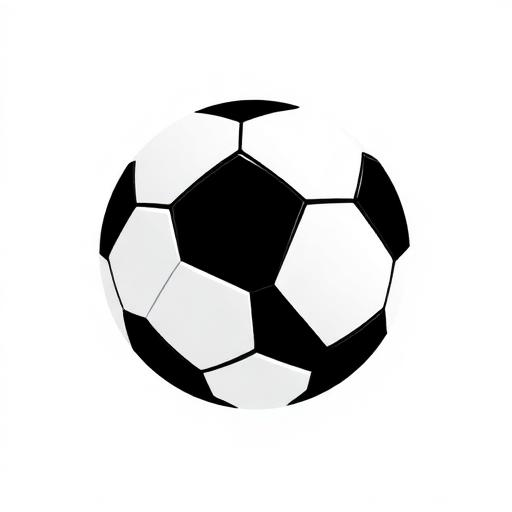
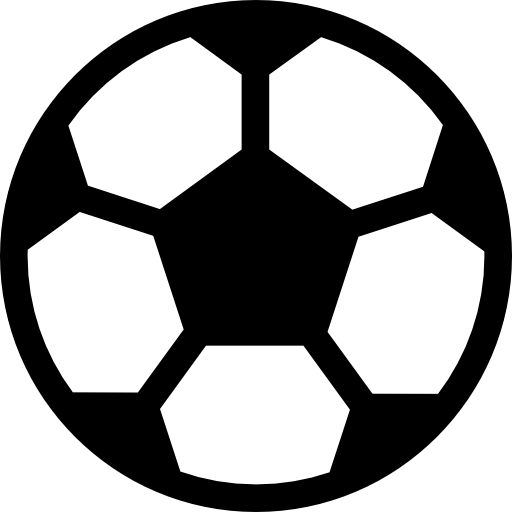
Changes

diff --git a/src/pages/HowWeRise.tsx b/src/pages/HowWeRise.tsx
@@ -74,9 +74,9 @@ const HowWeRise = () => {
       <Header />
       
       <main className="pt-16">
-        {/* Hero Section with Football Icon Background */}
+        {/* Hero Section with Football Icon Background - Restored players-draft style */}
         <section className="relative min-h-[80vh] flex items-center justify-center overflow-hidden">
-          {/* Football icon background pattern */}
+          {/* Football icon background pattern - using the new uploaded icon */}
           <div className="absolute inset-0 pointer-events-none opacity-5">
             <div className="absolute top-1/4 left-1/4 w-48 h-48 animate-pulse">
               <img src={footballIcon} alt="" className="w-full h-full object-contain" />
